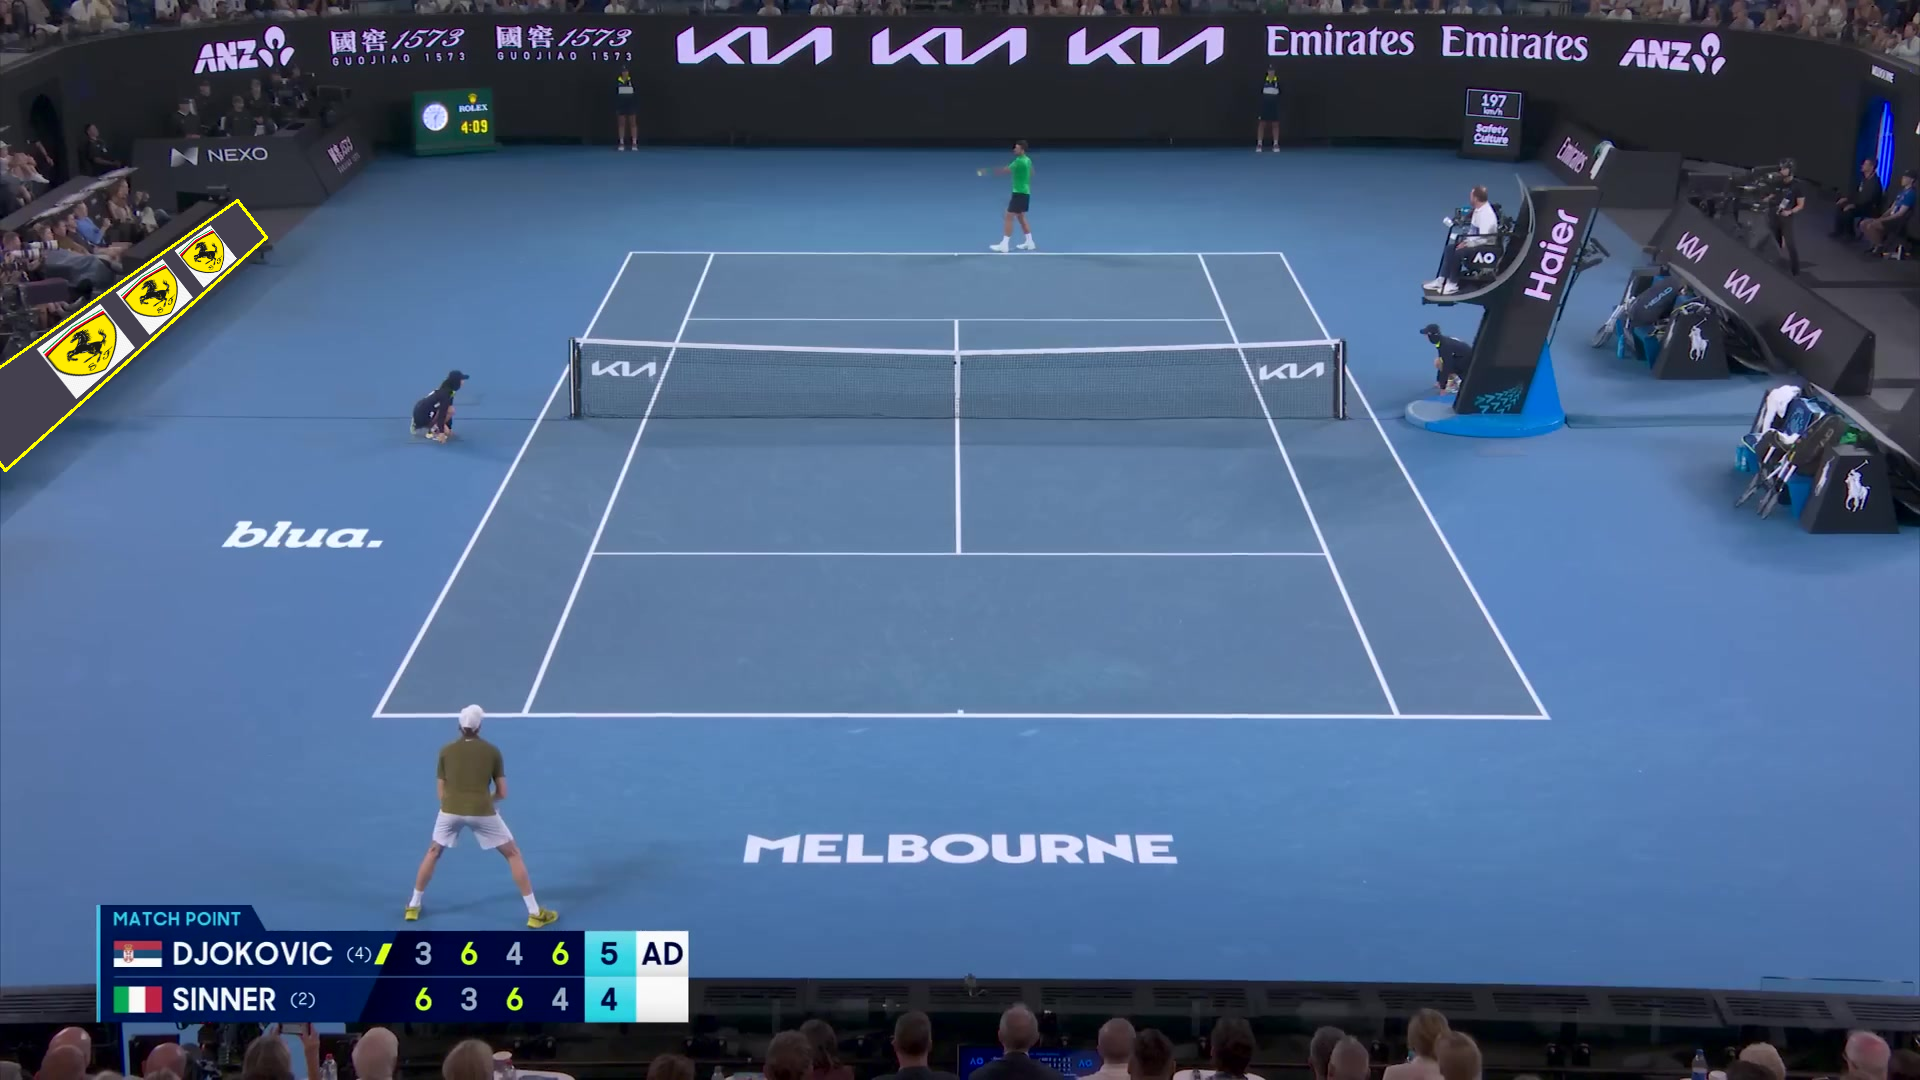
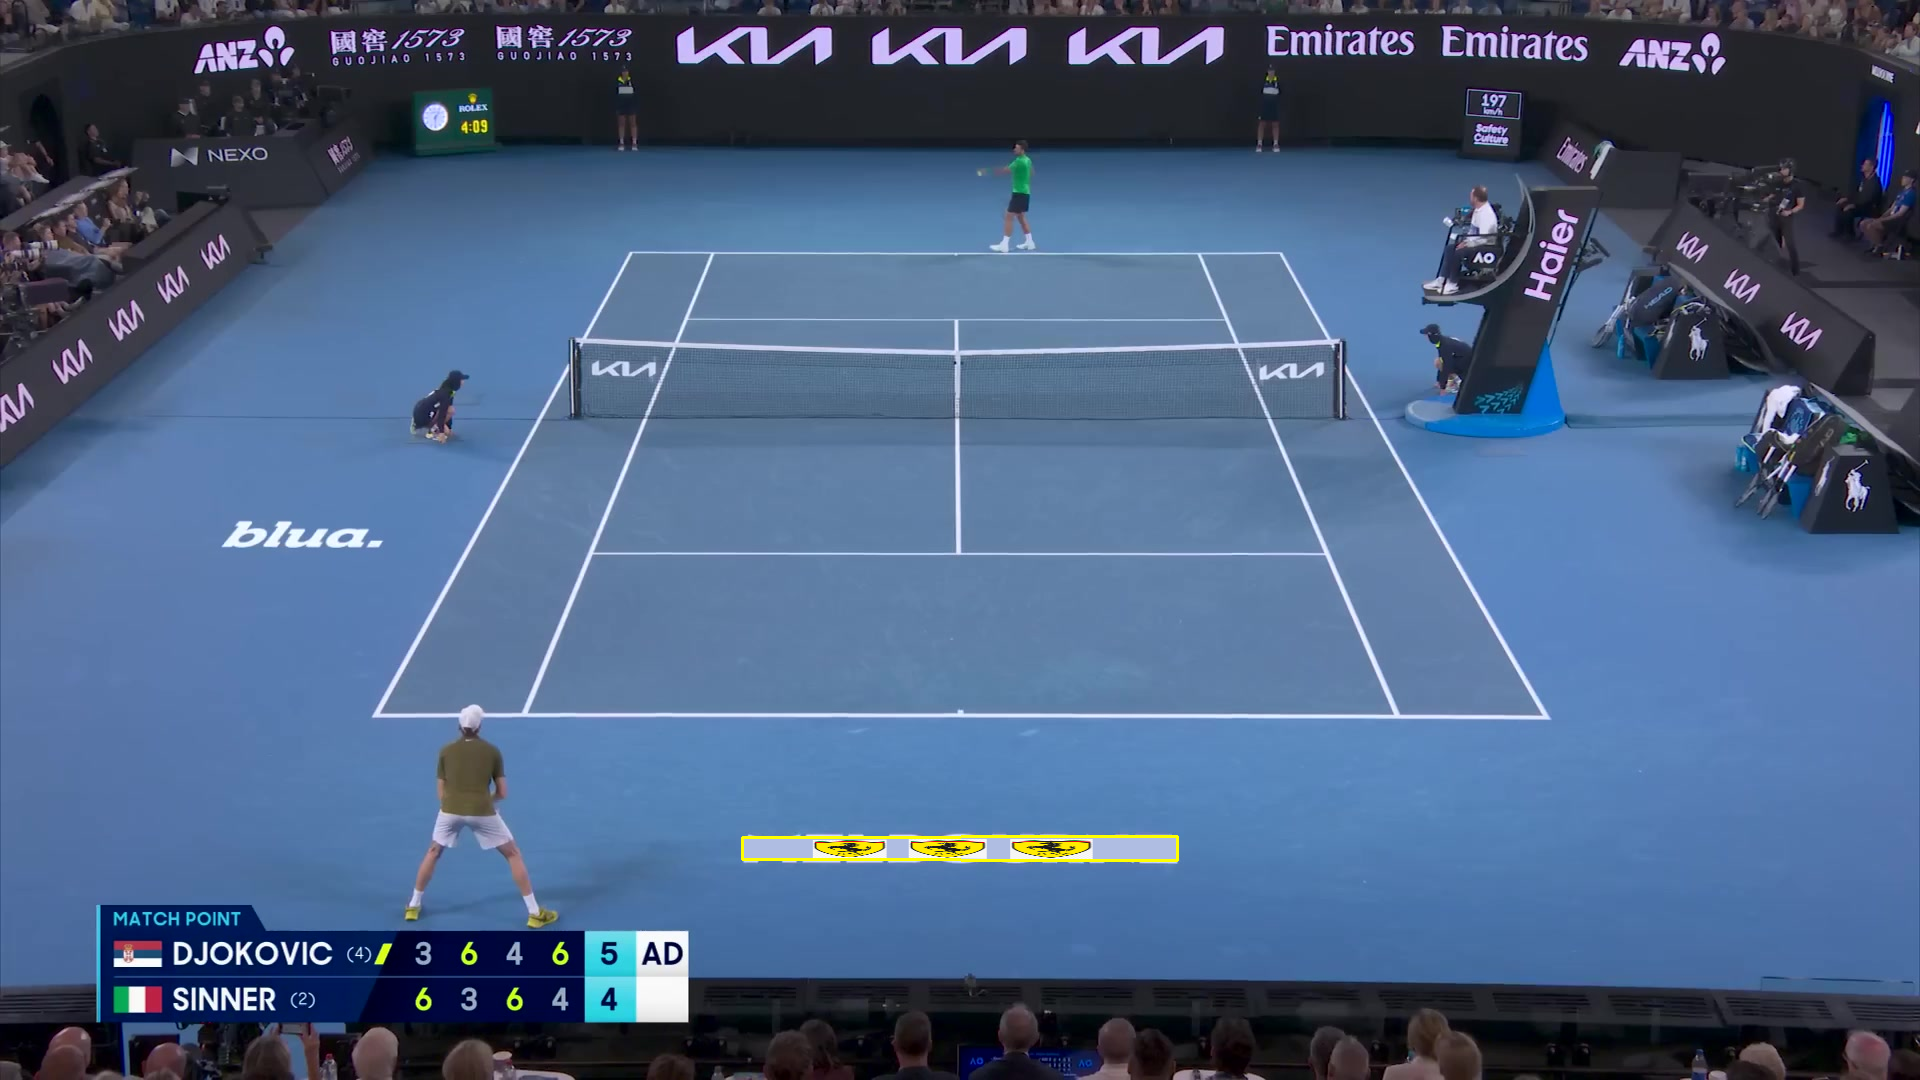
complicated region detection algorithm

Changed region(s): [[0.0, 0.1833, 0.125, 0.3972], [0.375, 0.7639, 0.625, 0.825]]

diff --git a/banner_segment.py b/banner_segment.py
@@ -188,15 +188,41 @@ def _fit_line_pts(pts: np.ndarray):
     return np.array([cx, cy], dtype=np.float64), np.array([vx, vy], dtype=np.float64)
 
 
-def fit_quadrilateral(mask: np.ndarray) -> np.ndarray | None:
+def _line_intersect(p1, d1, p2, d2):
+    """Intersect lines p1+t*d1 and p2+s*d2. Returns the intersection point."""
+    cross = d1[0] * d2[1] - d1[1] * d2[0]
+    if abs(cross) < 1e-9:
+        return (p1 + p2) / 2.0
+    dp = p2 - p1
+    t = (dp[0] * d2[1] - dp[1] * d2[0]) / cross
+    return p1 + t * d1
+
+
+def fit_quadrilateral(mask: np.ndarray, axis: str = "short") -> np.ndarray | None:
     """Fit a perspective-aware quadrilateral to a binary mask.
 
-    Splits contour into top/bottom edge points and fits an independent line to
-    each, capturing natural perspective convergence. Returns [TL, TR, BR, BL]
-    or None on failure.
+    *axis* controls which pair of edges gets independent line fitting:
+      - "short" (default): split along short axis → top/bottom edges can converge
+      - "long": split along long axis → left/right edges can converge
+
+    Returns [TL, TR, BR, BL] or None on failure.
     """
     mask_u8 = (mask > 0).astype(np.uint8) * 255
-    contours, _ = cv2.findContours(mask_u8, cv2.RETR_EXTERNAL, cv2.CHAIN_APPROX_SIMPLE)
+
+    # Keep only the largest connected component
+    n_labels, labels, stats, _ = cv2.connectedComponentsWithStats(mask_u8)
+    if n_labels > 2:
+        largest_label = 1 + np.argmax(stats[1:, cv2.CC_STAT_AREA])
+        mask_u8 = ((labels == largest_label) * 255).astype(np.uint8)
+        print(f"  Kept largest component ({stats[largest_label, cv2.CC_STAT_AREA]}px), "
+              f"dropped {n_labels - 2} small blob(s)")
+
+    # Smooth edges
+    kern = cv2.getStructuringElement(cv2.MORPH_ELLIPSE, (5, 5))
+    mask_u8 = cv2.morphologyEx(mask_u8, cv2.MORPH_CLOSE, kern)
+    mask_u8 = cv2.morphologyEx(mask_u8, cv2.MORPH_OPEN, kern)
+
+    contours, _ = cv2.findContours(mask_u8, cv2.RETR_EXTERNAL, cv2.CHAIN_APPROX_NONE)
     if not contours:
         return None
     largest = max(contours, key=cv2.contourArea)
@@ -210,49 +236,129 @@ def fit_quadrilateral(mask: np.ndarray) -> np.ndarray | None:
         angle_deg += 90
 
     angle_rad = np.deg2rad(angle_deg)
+    long_dir = np.array([np.cos(angle_rad), np.sin(angle_rad)])
     short_dir = np.array([-np.sin(angle_rad), np.cos(angle_rad)])
 
     rel = pts - center
-    proj_short = rel @ short_dir
 
-    top_pts = pts[proj_short >= 0]
-    bot_pts = pts[proj_short < 0]
-    print(f"  Top edge: {len(top_pts)} pts, Bottom edge: {len(bot_pts)} pts")
+    if axis == "long":
+        proj_long = rel @ long_dir
+        proj_short = rel @ short_dir
+        short_bins = np.round(proj_short).astype(int)
+        unique_bins = np.unique(short_bins)
+        # Trim top/bottom 15% of rows to avoid corner-rounding points
+        n_trim = max(1, int(len(unique_bins) * 0.15))
+        unique_bins = unique_bins[n_trim:-n_trim]
+        left_idx, right_idx = [], []
+        for b in unique_bins:
+            in_bin = np.where(short_bins == b)[0]
+            left_idx.append(in_bin[np.argmin(proj_long[in_bin])])
+            right_idx.append(in_bin[np.argmax(proj_long[in_bin])])
+        group_a = pts[left_idx]
+        group_b = pts[right_idx]
+        labels = ("Left", "Right")
+    else:
+        proj_short = rel @ short_dir
+        group_a = pts[proj_short >= 0]
+        group_b = pts[proj_short < 0]
+        labels = ("Top", "Bottom")
 
-    if len(top_pts) < 5 or len(bot_pts) < 5:
+    print(f"  {labels[0]} edge: {len(group_a)} pts, {labels[1]} edge: {len(group_b)} pts")
+
+    if len(group_a) < 5 or len(group_b) < 5:
         print("  [warn] Not enough points, falling back to minAreaRect")
         return cv2.boxPoints(rect).astype(np.float32)
 
-    pt_top, dir_top = _fit_line_pts(top_pts)
-    pt_bot, dir_bot = _fit_line_pts(bot_pts)
+    pt_a, dir_a = _fit_line_pts(group_a)
+    pt_b, dir_b = _fit_line_pts(group_b)
 
-    if dir_top @ dir_bot < 0:
-        dir_bot = -dir_bot
+    if dir_a @ dir_b < 0:
+        dir_b = -dir_b
 
-    d_avg = (dir_top + dir_bot) / 2.0
-    d_avg /= np.linalg.norm(d_avg)
+    # Find the two extent edges of the minAreaRect perpendicular to the
+    # fitted lines, then intersect to get corners.
+    box_corners = cv2.boxPoints(rect).astype(np.float64)
+    if axis == "long":
+        # Fitted lines ≈ short dir; extent edges ≈ long dir (top/bottom of rect)
+        extent_dir = short_dir
+    else:
+        # Fitted lines ≈ long dir; extent edges ≈ short dir (left/right of rect)
+        extent_dir = long_dir
 
-    proj_long = pts @ d_avg
-    p_min, p_max = proj_long.min(), proj_long.max()
+    proj_box = (box_corners - center) @ extent_dir
+    order = np.argsort(proj_box)
+    edge1_pts = box_corners[order[:2]]  # low-projection edge
+    edge2_pts = box_corners[order[2:]]  # high-projection edge
+    edge1_dir = edge1_pts[1] - edge1_pts[0]
+    edge1_dir /= np.linalg.norm(edge1_dir)
+    edge2_dir = edge2_pts[1] - edge2_pts[0]
+    edge2_dir /= np.linalg.norm(edge2_dir)
 
-    def point_on_line(pt_on, d, target):
-        denom = d @ d_avg
-        if abs(denom) < 1e-9:
-            return pt_on
-        t = (target - pt_on @ d_avg) / denom
-        return pt_on + t * d
+    c_a1 = _line_intersect(pt_a, dir_a, edge1_pts[0], edge1_dir)
+    c_a2 = _line_intersect(pt_a, dir_a, edge2_pts[0], edge2_dir)
+    c_b1 = _line_intersect(pt_b, dir_b, edge1_pts[0], edge1_dir)
+    c_b2 = _line_intersect(pt_b, dir_b, edge2_pts[0], edge2_dir)
 
-    tl = point_on_line(pt_top, dir_top, p_min)
-    tr = point_on_line(pt_top, dir_top, p_max)
-    br = point_on_line(pt_bot, dir_bot, p_max)
-    bl = point_on_line(pt_bot, dir_bot, p_min)
+    corners = np.array([c_a1, c_a2, c_b1, c_b2], dtype=np.float32)
 
-    corners = np.array([tl, tr, br, bl], dtype=np.float32)
+    angle_a = np.degrees(np.arctan2(dir_a[1], dir_a[0]))
+    angle_b = np.degrees(np.arctan2(dir_b[1], dir_b[0]))
+    print(f"  {labels[0]} line angle: {angle_a:.2f}°, {labels[1]} line angle: {angle_b:.2f}°")
+    print(f"  Convergence: {abs(angle_a - angle_b):.2f}°")
 
-    angle_top = np.degrees(np.arctan2(dir_top[1], dir_top[0]))
-    angle_bot = np.degrees(np.arctan2(dir_bot[1], dir_bot[0]))
-    print(f"  Top line angle: {angle_top:.2f}°, Bottom line angle: {angle_bot:.2f}°")
-    print(f"  Convergence: {abs(angle_top - angle_bot):.2f}°")
+    # --- Debug visualisation ---
+    h_img, w_img = mask.shape[:2]
+    dbg = np.zeros((h_img, w_img, 3), dtype=np.uint8)
+    dbg[mask_u8 > 0] = (60, 60, 60)
+    # minAreaRect (white dashed-ish)
+    box_pts = cv2.boxPoints(rect).astype(np.int32).reshape((-1, 1, 2))
+    cv2.polylines(dbg, [box_pts], True, (255, 255, 255), 1, cv2.LINE_AA)
+    # Long / short axis arrows from center
+    arrow_len = 60
+    ct = tuple(center.astype(int))
+    cv2.arrowedLine(dbg, ct, tuple((center + arrow_len * long_dir).astype(int)),
+                    (0, 200, 200), 1, cv2.LINE_AA, tipLength=0.2)
+    cv2.putText(dbg, "long", tuple((center + arrow_len * long_dir + 5).astype(int)),
+                cv2.FONT_HERSHEY_SIMPLEX, 0.35, (0, 200, 200), 1)
+    cv2.arrowedLine(dbg, ct, tuple((center + arrow_len * short_dir).astype(int)),
+                    (200, 200, 0), 1, cv2.LINE_AA, tipLength=0.2)
+    cv2.putText(dbg, "short", tuple((center + arrow_len * short_dir + 5).astype(int)),
+                cv2.FONT_HERSHEY_SIMPLEX, 0.35, (200, 200, 0), 1)
+    # All contour points in grey
+    for p in pts.astype(int):
+        cv2.circle(dbg, tuple(p), 1, (120, 120, 120), -1)
+    # group_a points (cyan) and group_b points (magenta)
+    for p in group_a.astype(int):
+        cv2.circle(dbg, tuple(p), 3, (255, 255, 0), -1)
+    for p in group_b.astype(int):
+        cv2.circle(dbg, tuple(p), 3, (255, 0, 255), -1)
+    # Fitted lines — extend far in both directions
+    line_len = max(h_img, w_img)
+    la1 = (pt_a - line_len * dir_a).astype(int)
+    la2 = (pt_a + line_len * dir_a).astype(int)
+    lb1 = (pt_b - line_len * dir_b).astype(int)
+    lb2 = (pt_b + line_len * dir_b).astype(int)
+    cv2.line(dbg, tuple(la1), tuple(la2), (0, 255, 255), 1, cv2.LINE_AA)
+    cv2.line(dbg, tuple(lb1), tuple(lb2), (0, 0, 255), 1, cv2.LINE_AA)
+    # Extent edges (green) — the minAreaRect edges used for intersection
+    e1a, e1b = edge1_pts[0].astype(int), edge1_pts[1].astype(int)
+    e2a, e2b = edge2_pts[0].astype(int), edge2_pts[1].astype(int)
+    cv2.line(dbg, tuple(e1a), tuple(e1b), (0, 180, 0), 1, cv2.LINE_AA)
+    cv2.line(dbg, tuple(e2a), tuple(e2b), (0, 180, 0), 1, cv2.LINE_AA)
+    # Corners
+    for i, c in enumerate(corners):
+        cv2.circle(dbg, (int(c[0]), int(c[1])), 5, (0, 0, 255), -1)
+        cv2.putText(dbg, str(i), (int(c[0]) + 8, int(c[1]) - 4),
+                    cv2.FONT_HERSHEY_SIMPLEX, 0.5, (255, 255, 255), 1)
+    # Crop to region of interest (mask bounding box + padding)
+    ys, xs = np.where(mask_u8 > 0)
+    if len(xs) > 0:
+        pad = 60
+        x0, x1 = max(xs.min() - pad, 0), min(xs.max() + pad, w_img)
+        y0, y1 = max(ys.min() - pad, 0), min(ys.max() + pad, h_img)
+        dbg = dbg[y0:y1, x0:x1]
+    cv2.imwrite("debug_fit.png", dbg)
+    print("  Debug image saved: debug_fit.png")
 
     # Sort into TL/TR/BR/BL
     s = corners.sum(axis=1)
@@ -268,6 +374,66 @@ def fit_quadrilateral(mask: np.ndarray) -> np.ndarray | None:
 # ---------------------------------------------------------------------------
 # Visualisation
 # ---------------------------------------------------------------------------
+
+def composite_logo(frame: np.ndarray, corners: np.ndarray, logo_path: str,
+                   save_path: str = "sponsor_morph_result.png") -> np.ndarray:
+    """Warp a sponsor logo into the detected quad region."""
+    logo_bgra = cv2.imread(logo_path, cv2.IMREAD_UNCHANGED)
+    if logo_bgra is None:
+        raise RuntimeError(f"Could not read logo: {logo_path}")
+
+    h, w = frame.shape[:2]
+
+    # Sample background color from a thin border around the quad
+    quad_mask = np.zeros((h, w), dtype=np.uint8)
+    cv2.fillPoly(quad_mask, [corners.astype(np.int32)], 255)
+    kern = cv2.getStructuringElement(cv2.MORPH_ELLIPSE, (15, 15))
+    border_mask = cv2.dilate(quad_mask, kern) & ~quad_mask
+    bg_color = np.median(frame[border_mask > 0], axis=0).astype(np.uint8)
+    print(f"  Background color (BGR): {tuple(int(c) for c in bg_color)}")
+
+    # Canvas sized to match quad proportions
+    w_top = np.linalg.norm(corners[1] - corners[0])
+    w_bot = np.linalg.norm(corners[2] - corners[3])
+    h_left = np.linalg.norm(corners[3] - corners[0])
+    h_right = np.linalg.norm(corners[2] - corners[1])
+    canvas_w = int(max(w_top, w_bot))
+    canvas_h = int(max(h_left, h_right))
+    canvas = np.full((canvas_h, canvas_w, 3), bg_color, dtype=np.uint8)
+
+    # Resize logo to fit canvas with a small margin
+    logo_h, logo_w = logo_bgra.shape[:2]
+    pad = 4
+    scale = min((canvas_w - 2 * pad) / logo_w, (canvas_h - 2 * pad) / logo_h)
+    new_w, new_h = int(logo_w * scale), int(logo_h * scale)
+    logo_resized = cv2.resize(logo_bgra, (new_w, new_h), interpolation=cv2.INTER_AREA)
+
+    # Centre logo on canvas with alpha blending
+    x0 = (canvas_w - new_w) // 2
+    y0 = (canvas_h - new_h) // 2
+    if logo_resized.shape[2] == 4:
+        alpha = logo_resized[:, :, 3:4].astype(np.float32) / 255.0
+        roi = canvas[y0:y0 + new_h, x0:x0 + new_w].astype(np.float32)
+        canvas[y0:y0 + new_h, x0:x0 + new_w] = (
+            logo_resized[:, :, :3].astype(np.float32) * alpha + roi * (1 - alpha)
+        ).astype(np.uint8)
+    else:
+        canvas[y0:y0 + new_h, x0:x0 + new_w] = logo_resized[:, :, :3]
+
+    # Warp canvas into quad via homography
+    src = np.array([[0, 0], [canvas_w, 0], [canvas_w, canvas_h], [0, canvas_h]], dtype=np.float32)
+    H, _ = cv2.findHomography(src, corners.astype(np.float32))
+    warped = cv2.warpPerspective(canvas, H, (w, h))
+    warp_mask = cv2.warpPerspective(np.ones((canvas_h, canvas_w), dtype=np.uint8) * 255, H, (w, h))
+
+    result = frame.copy()
+    m = warp_mask > 0
+    result[m] = warped[m]
+
+    cv2.imwrite(save_path, result)
+    print(f"  Saved composited result: {save_path}")
+    return result
+
 
 OBJ_COLORS = [
     (0, 200, 0), (200, 0, 0), (0, 0, 200),
@@ -343,6 +509,11 @@ def main():
     parser.add_argument("--save", default="banner_result.png", help="Output image path")
     parser.add_argument("--checkpoint", default="sam2/checkpoints/sam2.1_hiera_tiny.pt")
     parser.add_argument("--model-cfg", default="configs/sam2.1/sam2.1_hiera_t.yaml")
+    parser.add_argument("--axis", choices=["short", "long"], default="short",
+                        help="Which axis to split contour for line fitting: "
+                             "'short' (default) fits top/bottom edges independently; "
+                             "'long' fits left/right edges independently")
+    parser.add_argument("--logo", default=None, help="Path to sponsor logo PNG to composite into the detected region")
     parser.add_argument("--mask-dir", default="masks", help="Directory to save masks + frame (default: masks/)")
     args = parser.parse_args()
 
@@ -375,7 +546,7 @@ def main():
     corners_map = {}
     for obj_id, mask in masks.items():
         print(f"  Object {obj_id}:")
-        corners = fit_quadrilateral(mask)
+        corners = fit_quadrilateral(mask, axis=args.axis)
         if corners is not None:
             corners_map[obj_id] = corners
             for lbl, pt in zip(["TL", "TR", "BR", "BL"], corners):
@@ -383,6 +554,12 @@ def main():
 
     print(f"  Visualizing ({len(corners_map)} parallelograms) …", flush=True)
     visualize(frame, masks, corners_map, save_path=args.save)
+
+    if args.logo and corners_map:
+        print("[5/5] Compositing logo …", flush=True)
+        first_corners = next(iter(corners_map.values()))
+        composite_logo(frame, first_corners, args.logo)
+
     print("Done.")
 
 
